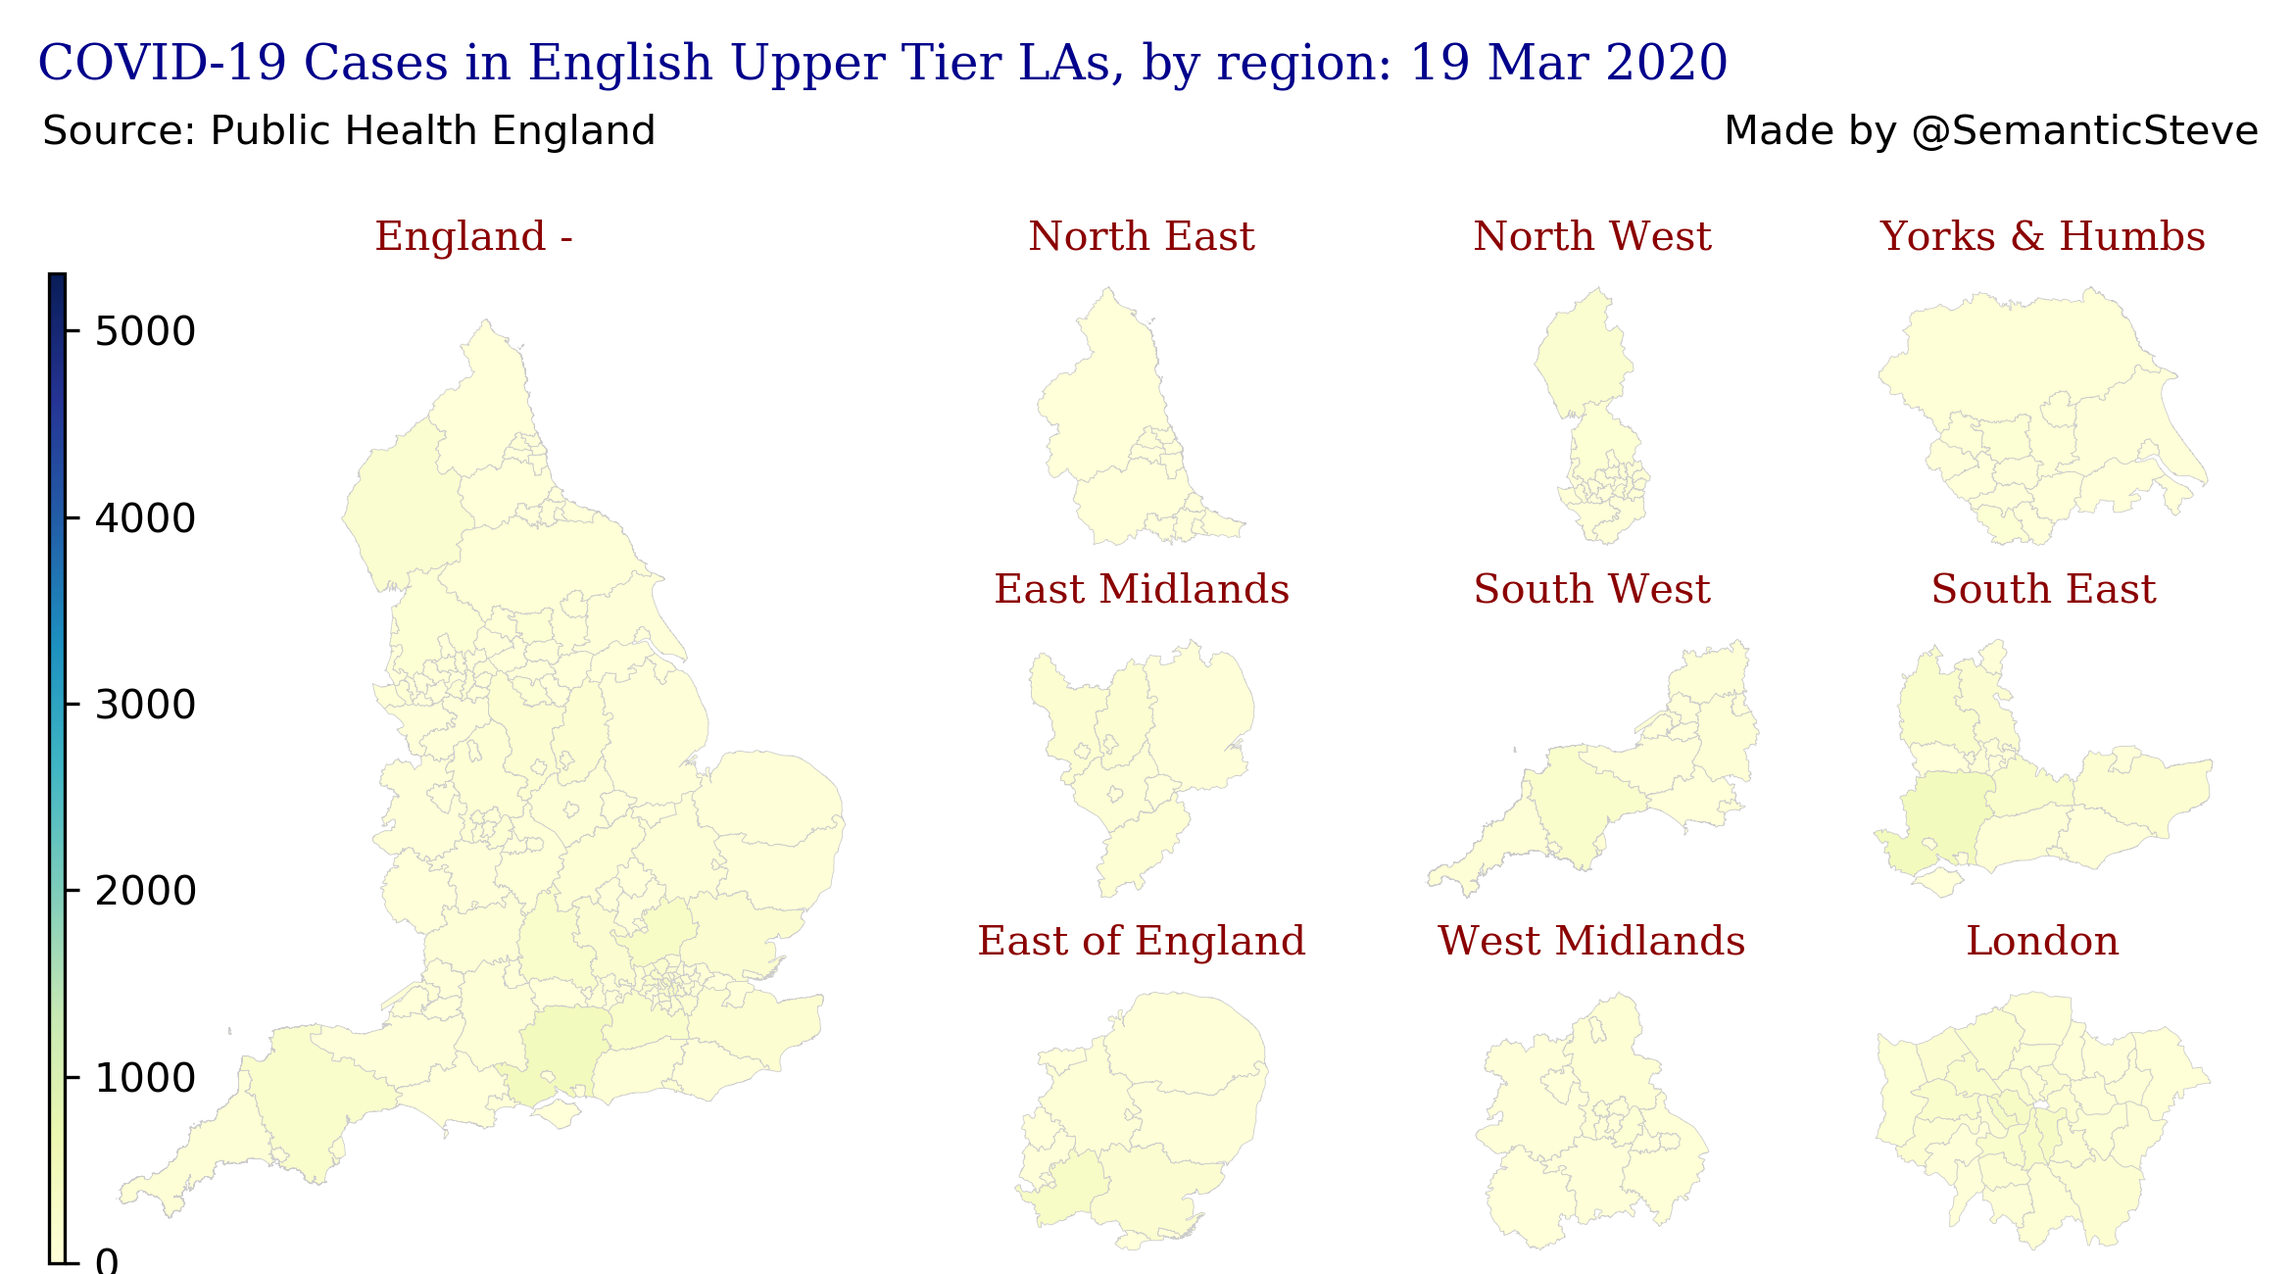
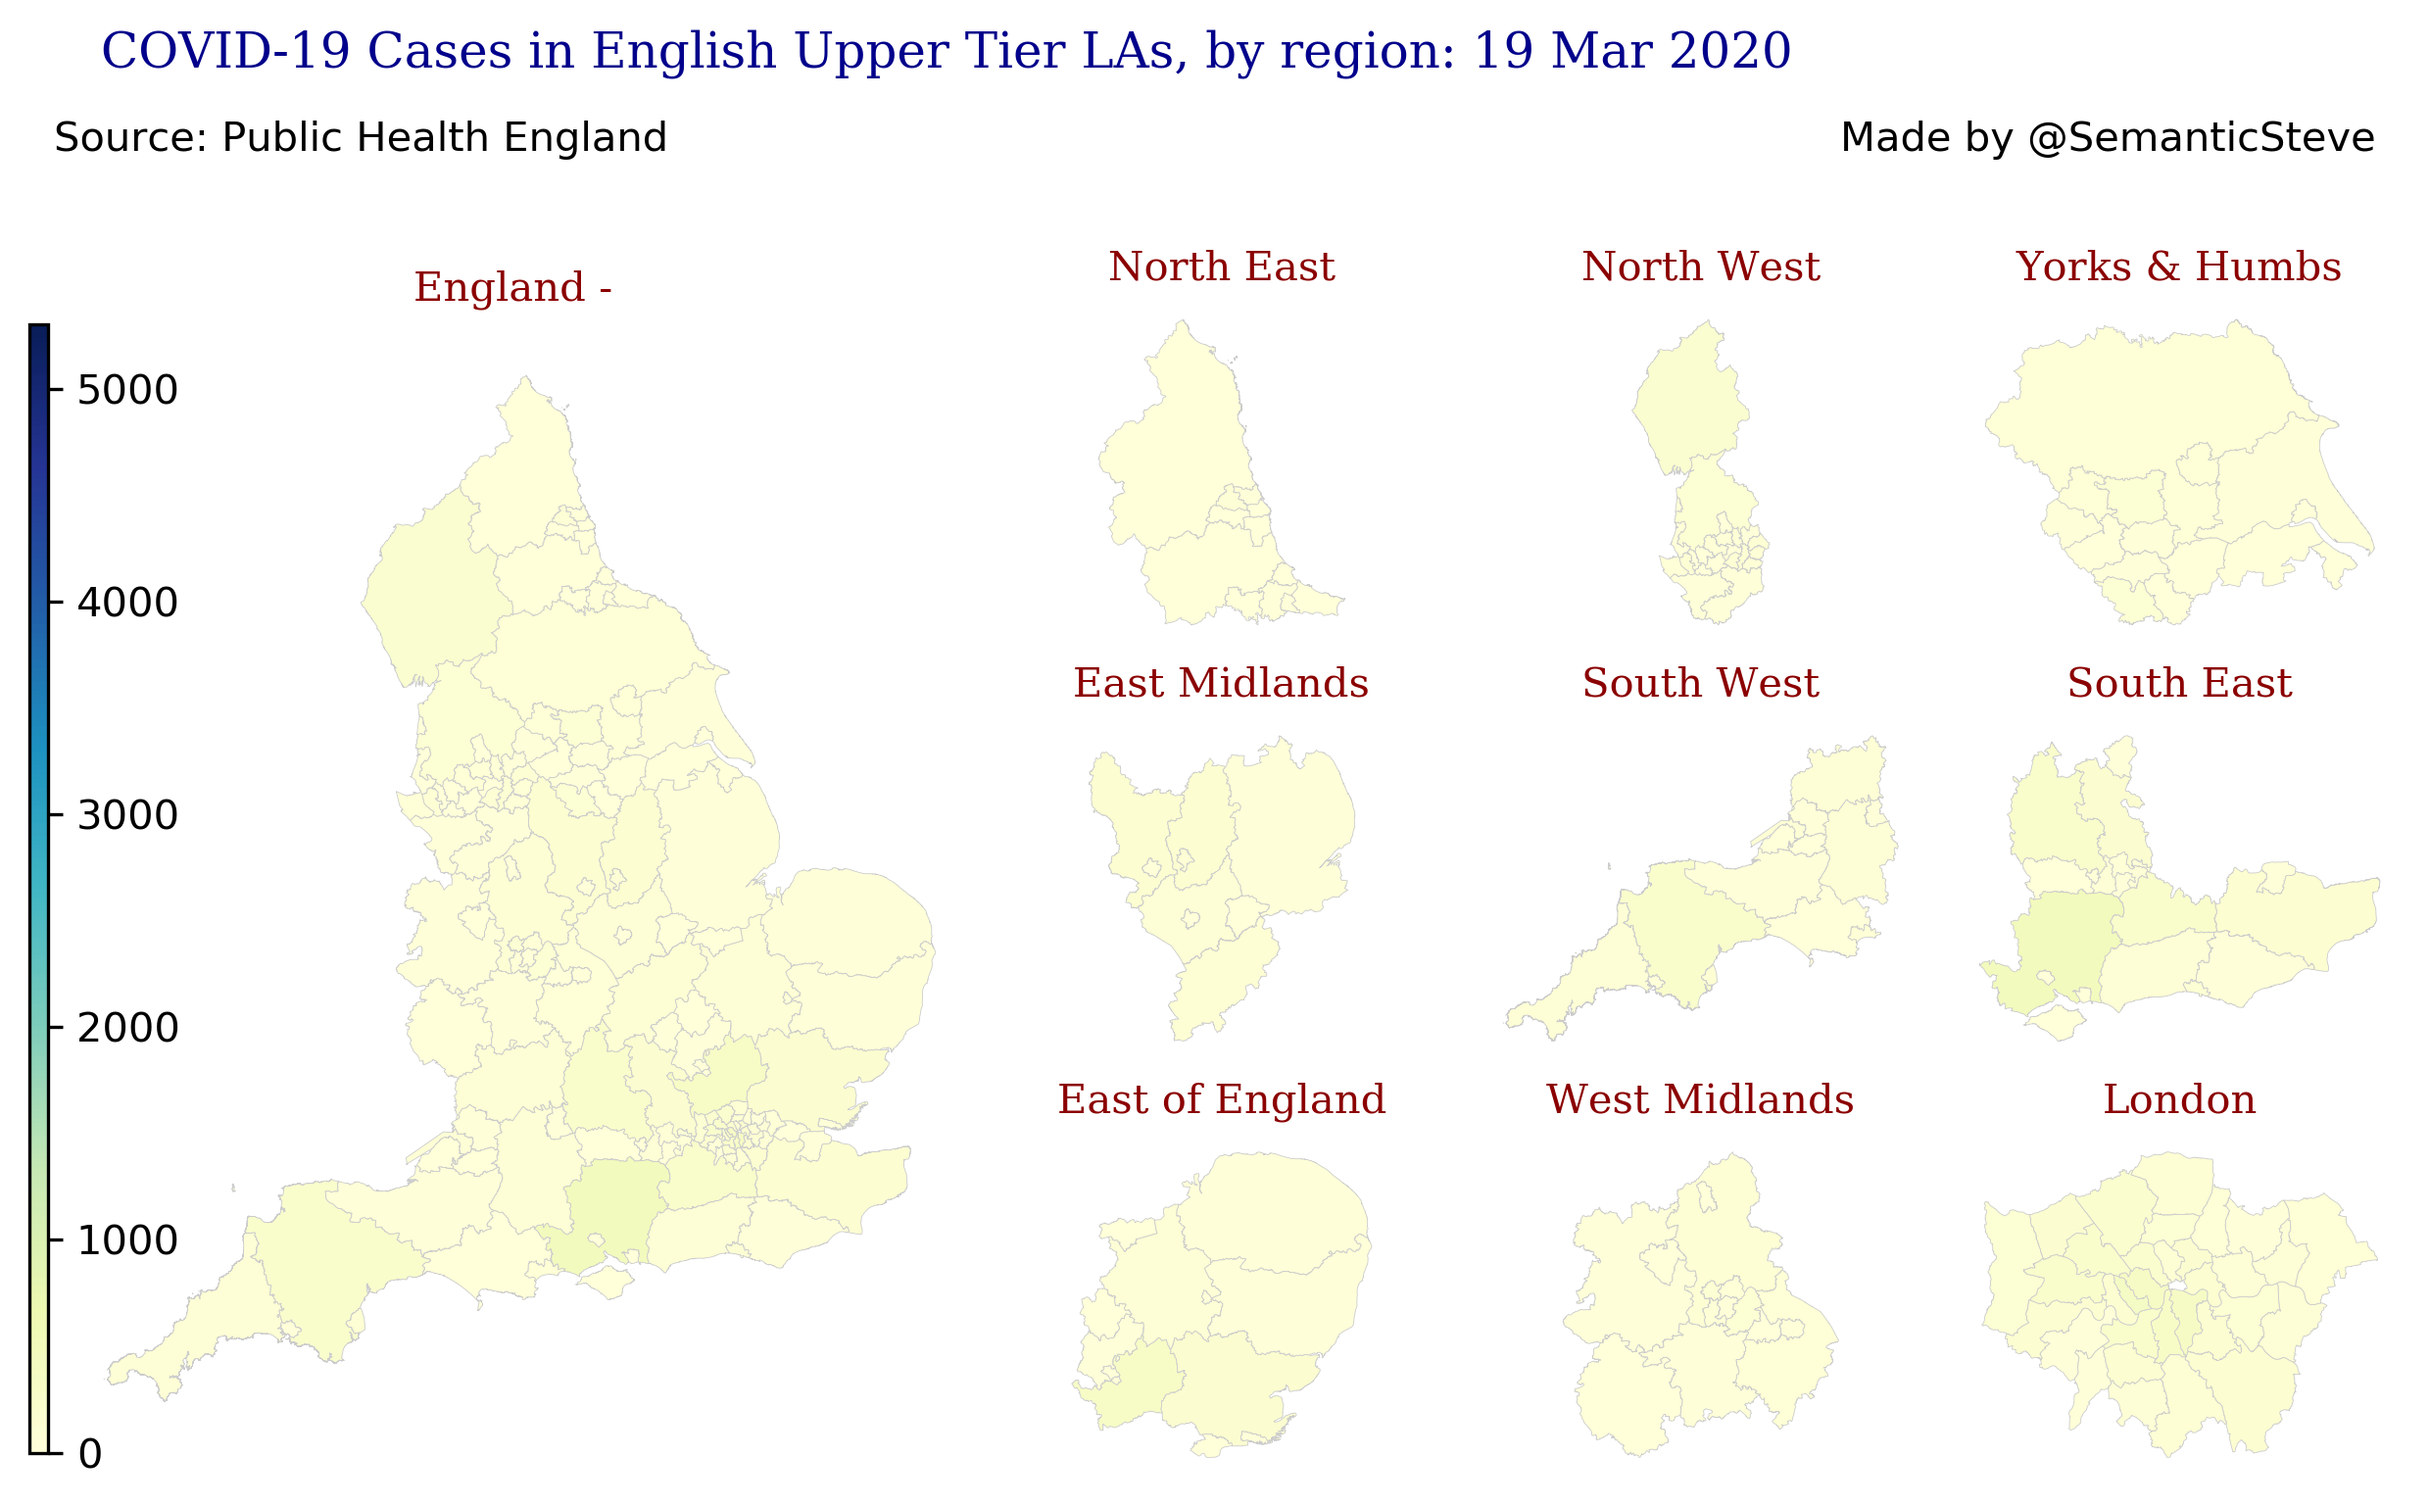
Code tweak and images resized to A4 landscape

diff --git a/map_case_counts.py b/map_case_counts.py
@@ -8,7 +8,6 @@ Created on Sun Mar 29 15:49:03 2020
 
 import pandas as pd
 import geopandas as gpd
-import mapclassify as mc
 import requests
 from io import StringIO
 from datetime import datetime
@@ -26,7 +25,8 @@ def drawChart( gPos, ctitle, setForMap ):
     
   
 # load UTLA boundaries
-utla_geom_url = "/Users/stevepeters/Documents/___Steve Peters/__COVID/utla_regions.gpkg"
+latestDate=datetime.strptime('2020-03-09', "%Y-%m-%d")
+utla_geom_url = "/Users/stevepeters/Documents/GitHub/covid/data/utla_regions.gpkg"
 utla_geom_data = gpd.read_file(utla_geom_url)
 
 # load latest case counts
@@ -71,67 +71,68 @@ for td in dict_date_range:
     
     # filter case list by dates
     tdd=datetime.strptime(td, "%Y-%m-%d")
-    tdt = tdd.strftime("%d %b %Y")
-    dfilter=df['Date'] == td
-    thisDateDF=(df[dfilter])
-    setForMap = utla_geom_data.set_index('AreaCode').join(thisDateDF.set_index('AreaCode'))
-    
-    fig = plt.figure(constrained_layout=False,figsize=[50,10])
-    fig.suptitle('COVID-19 Cases in English Upper Tier LAs, by region: ' + tdt, fontdict=fontMainhead, x=0.47)
-    
-    grid = fig.add_gridspec(ncols=5, nrows=4, figure=fig, wspace=0.2, hspace=0.1)
-    ax_eng = fig.add_subplot(grid[:3, :2])
-    ax_eng.axis('off')
-    setForMap.plot(column='cumCases', cmap=cMap, linewidth=0.2, ax=ax_eng, vmin=vmin, vmax=vmax, edgecolor='0.8')
-
-    
-    # create figure and axes for Matplotlib
-    fontSubhead = {'family': 'serif',
-        'color':  'darkred',
-        'weight': 'normal',
-        'size': 10,
-    }
-    ax_eng.set_title('England - ' ,fontdict=fontSubhead)
-    
-    # Create colorbar as a legend
-    sm = plt.cm.ScalarMappable(cmap=cMap, norm=plt.Normalize(vmin=vmin, vmax=vmax))
-    sm._A = []
-    divider = make_axes_locatable(ax_eng)
-    cax1 = divider.append_axes("left", size="2%", pad=0.05)
-    fig.colorbar(sm, cax=cax1, orientation="vertical")   
-    regList={}
-    setForMap.set_index('RGN19CD')
-    rowCounter=0
-    colCounter=2
-    
-    for region in dict_regions:
-       
-        rfilter=setForMap['RGN19CD'] == region
-        trset=(setForMap[rfilter])
-        trname=trset['RGN19NM'][0]
-        if trname=='Yorkshire and The Humber':
-            trname='Yorks & Humbs'
-        regList[region]={}
-        regList[region]['title']=trname
-        regList[region]['set']=trset
-        regList[region]['gpos']=grid[rowCounter, colCounter]
-        if colCounter==4:
-            rowCounter=rowCounter+1
-            colCounter=2
-        else:
-            colCounter=colCounter+1
-            
-    for region in regList:
-        drawChart( regList[region]['gpos'], regList[region]['title'], regList[region]['set'] )
+    if tdd>=latestDate:    
+        tdt = tdd.strftime("%d %b %Y")
+        dfilter=df['Date'] == td
+        thisDateDF=(df[dfilter])
+        setForMap = utla_geom_data.set_index('AreaCode').join(thisDateDF.set_index('AreaCode'))
         
-    fig.text( 0.21,0.93,'Source: Public Health England')
-    fig.text( 0.73,0.93,'Made by @SemanticSteve')
-    fig.subplots_adjust(top=0.7)
-    grid.tight_layout(fig, rect=[0.2, 0.2, 0.9, 0.9])
-    fig.subplots_adjust(top=0.7)
-    fig.set_size_inches(w=11,h=7)
+        fig = plt.figure(constrained_layout=False,figsize=[50,10])
+        fig.suptitle('COVID-19 Cases in English Upper Tier LAs, by region: ' + tdt, fontdict=fontMainhead, x=0.47)
+        
+        grid = fig.add_gridspec(ncols=5, nrows=4, figure=fig, wspace=0.2, hspace=0.1)
+        ax_eng = fig.add_subplot(grid[:3, :2])
+        ax_eng.axis('off')
+        setForMap.plot(column='cumCases', cmap=cMap, linewidth=0.2, ax=ax_eng, vmin=vmin, vmax=vmax, edgecolor='0.8')
     
-    fig_name = "img/" + td + '_utla_covid_cases.png'
-    fig.savefig(fig_name,  dpi=300)
-    plt.close(fig)
+        
+        # create figure and axes for Matplotlib
+        fontSubhead = {'family': 'serif',
+            'color':  'darkred',
+            'weight': 'normal',
+            'size': 10,
+        }
+        ax_eng.set_title('England - ' ,fontdict=fontSubhead)
+        
+        # Create colorbar as a legend
+        sm = plt.cm.ScalarMappable(cmap=cMap, norm=plt.Normalize(vmin=vmin, vmax=vmax))
+        sm._A = []
+        divider = make_axes_locatable(ax_eng)
+        cax1 = divider.append_axes("left", size="2%", pad=0.05)
+        fig.colorbar(sm, cax=cax1, orientation="vertical")   
+        regList={}
+        setForMap.set_index('RGN19CD')
+        rowCounter=0
+        colCounter=2
+        
+        for region in dict_regions:
+           
+            rfilter=setForMap['RGN19CD'] == region
+            trset=(setForMap[rfilter])
+            trname=trset['RGN19NM'][0]
+            if trname=='Yorkshire and The Humber':
+                trname='Yorks & Humbs'
+            regList[region]={}
+            regList[region]['title']=trname
+            regList[region]['set']=trset
+            regList[region]['gpos']=grid[rowCounter, colCounter]
+            if colCounter==4:
+                rowCounter=rowCounter+1
+                colCounter=2
+            else:
+                colCounter=colCounter+1
+                
+        for region in regList:
+            drawChart( regList[region]['gpos'], regList[region]['title'], regList[region]['set'] )
+            
+        fig.text( 0.21,0.93,'Source: Public Health England')
+        fig.text( 0.73,0.93,'Made by @SemanticSteve')
+        fig.subplots_adjust(top=0.7)
+        grid.tight_layout(fig, rect=[0.2, 0.2, 0.9, 0.9])
+        fig.subplots_adjust(top=0.7)
+        fig.set_size_inches(w=11.69,h=8.27)
+        
+        fig_name = "img/" + td + '_utla_covid_cases.png'
+        fig.savefig(fig_name, bbox_inches='tight', dpi=300)
+        plt.close(fig)
             
